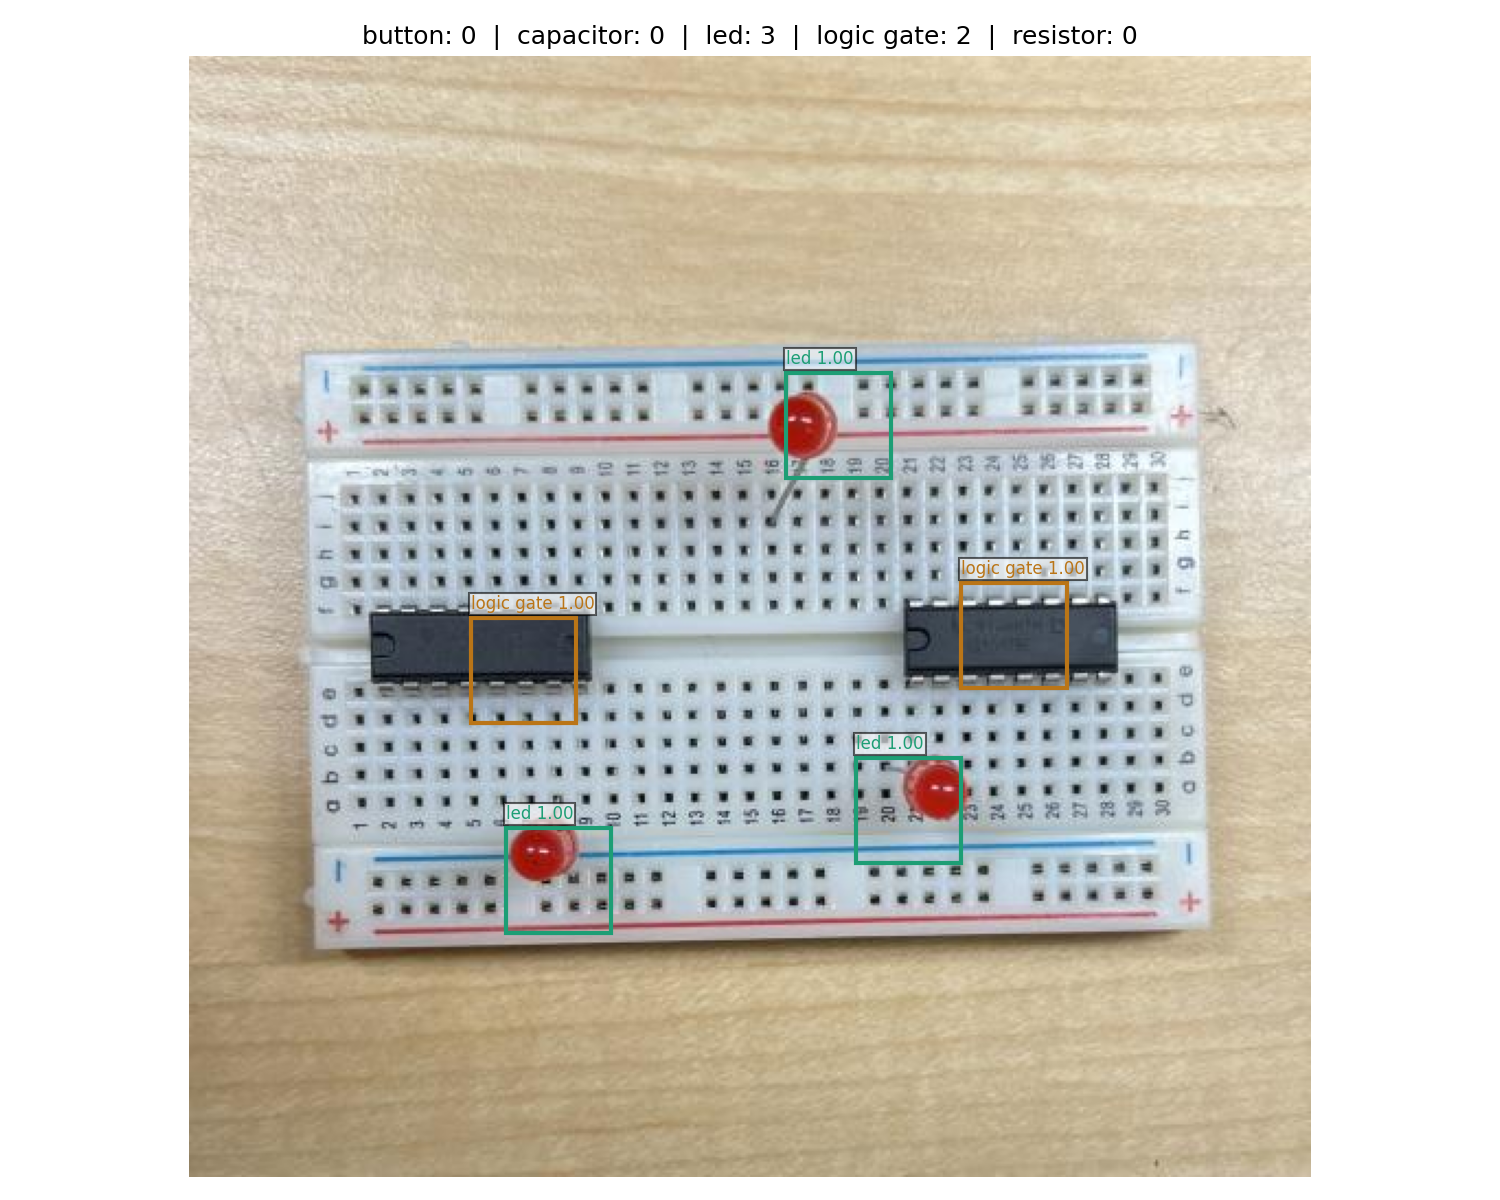
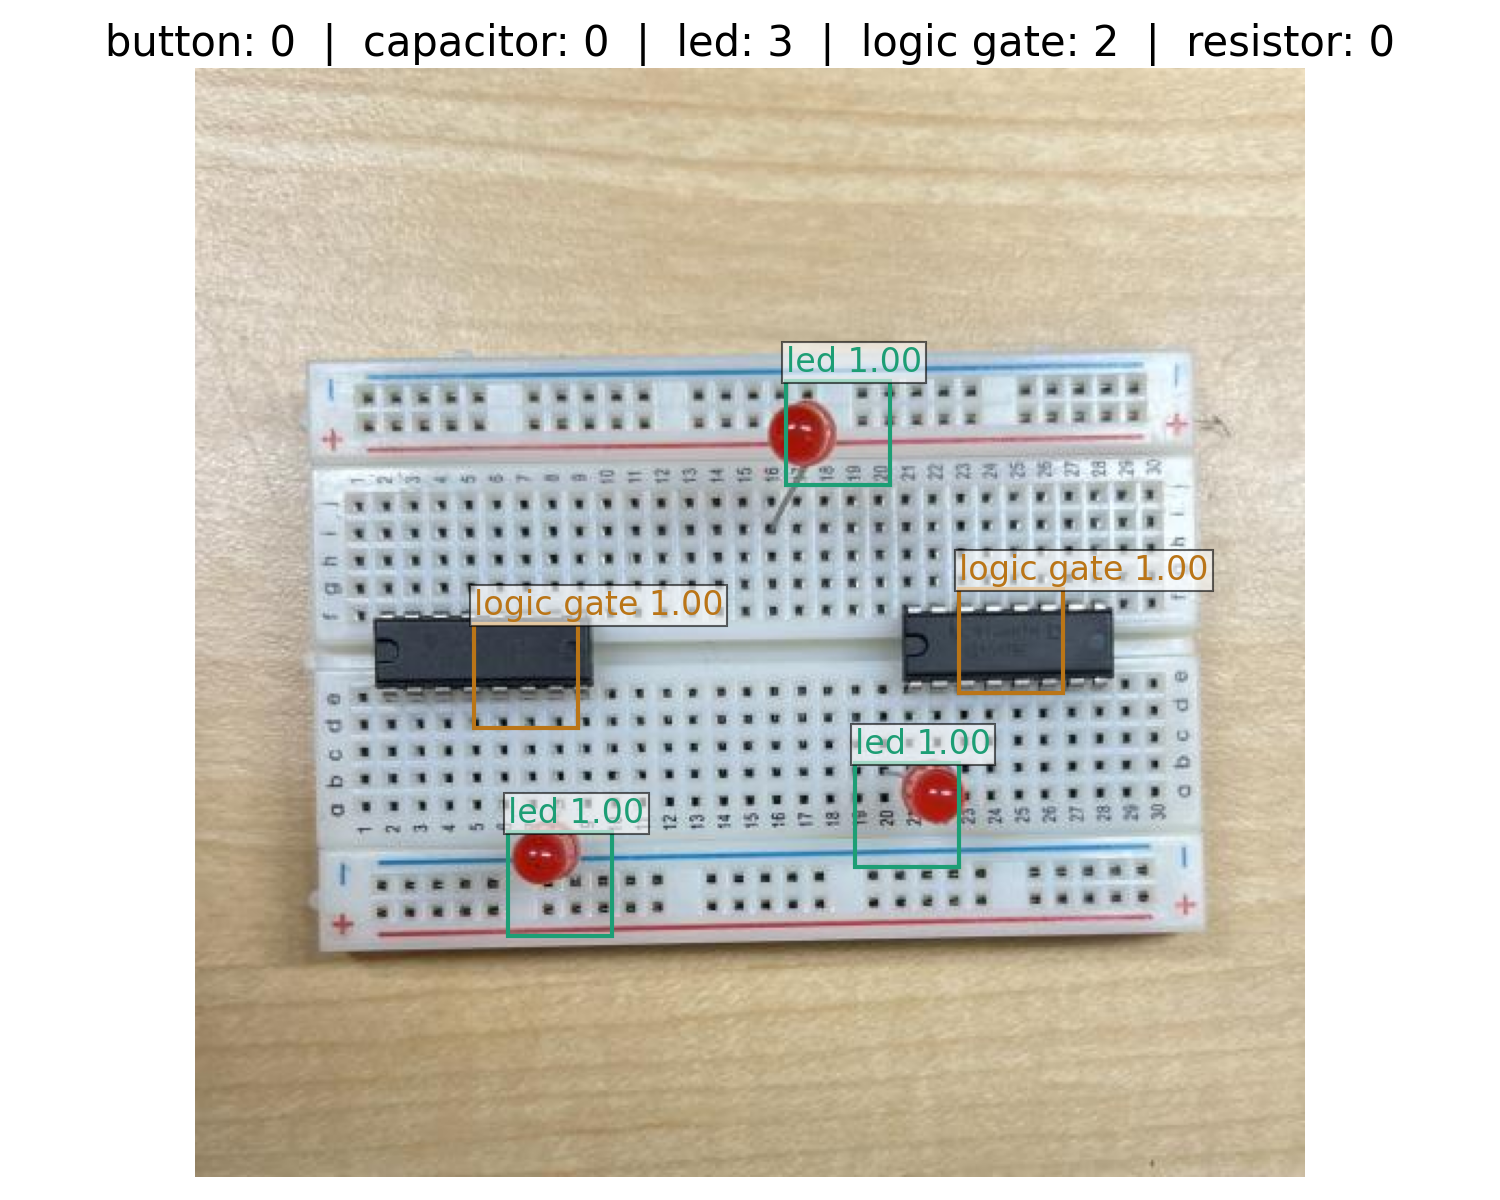
idk

diff --git a/primary3.py b/primary3.py
@@ -435,11 +435,11 @@ def predict_counts(model, image_path, classes,
                                       edgecolor=col, facecolor="none")
             ax.add_patch(rect)
             # label box
-            ax.text(x0, y0 - 4, f"{cls_name} {conf:.2f}", color=col, fontsize=8,
-                    bbox=dict(facecolor="white", alpha=0.6, pad=1))
+            ax.text(x0, y0 - 4, f"{cls_name} {conf:.2f}", color=col, fontsize=16,
+                    bbox=dict(facecolor="white", alpha=0.6, pad=2))
         
         title = "  |  ".join(f"{k}: {v}" for k, v in counts.items())
-        ax.set_title(title)
+        ax.set_title(title, fontsize=20)
         ax.axis("off")  # hide ticks
         plt.tight_layout()
         plt.savefig(save_vis, dpi=150); plt.close()
